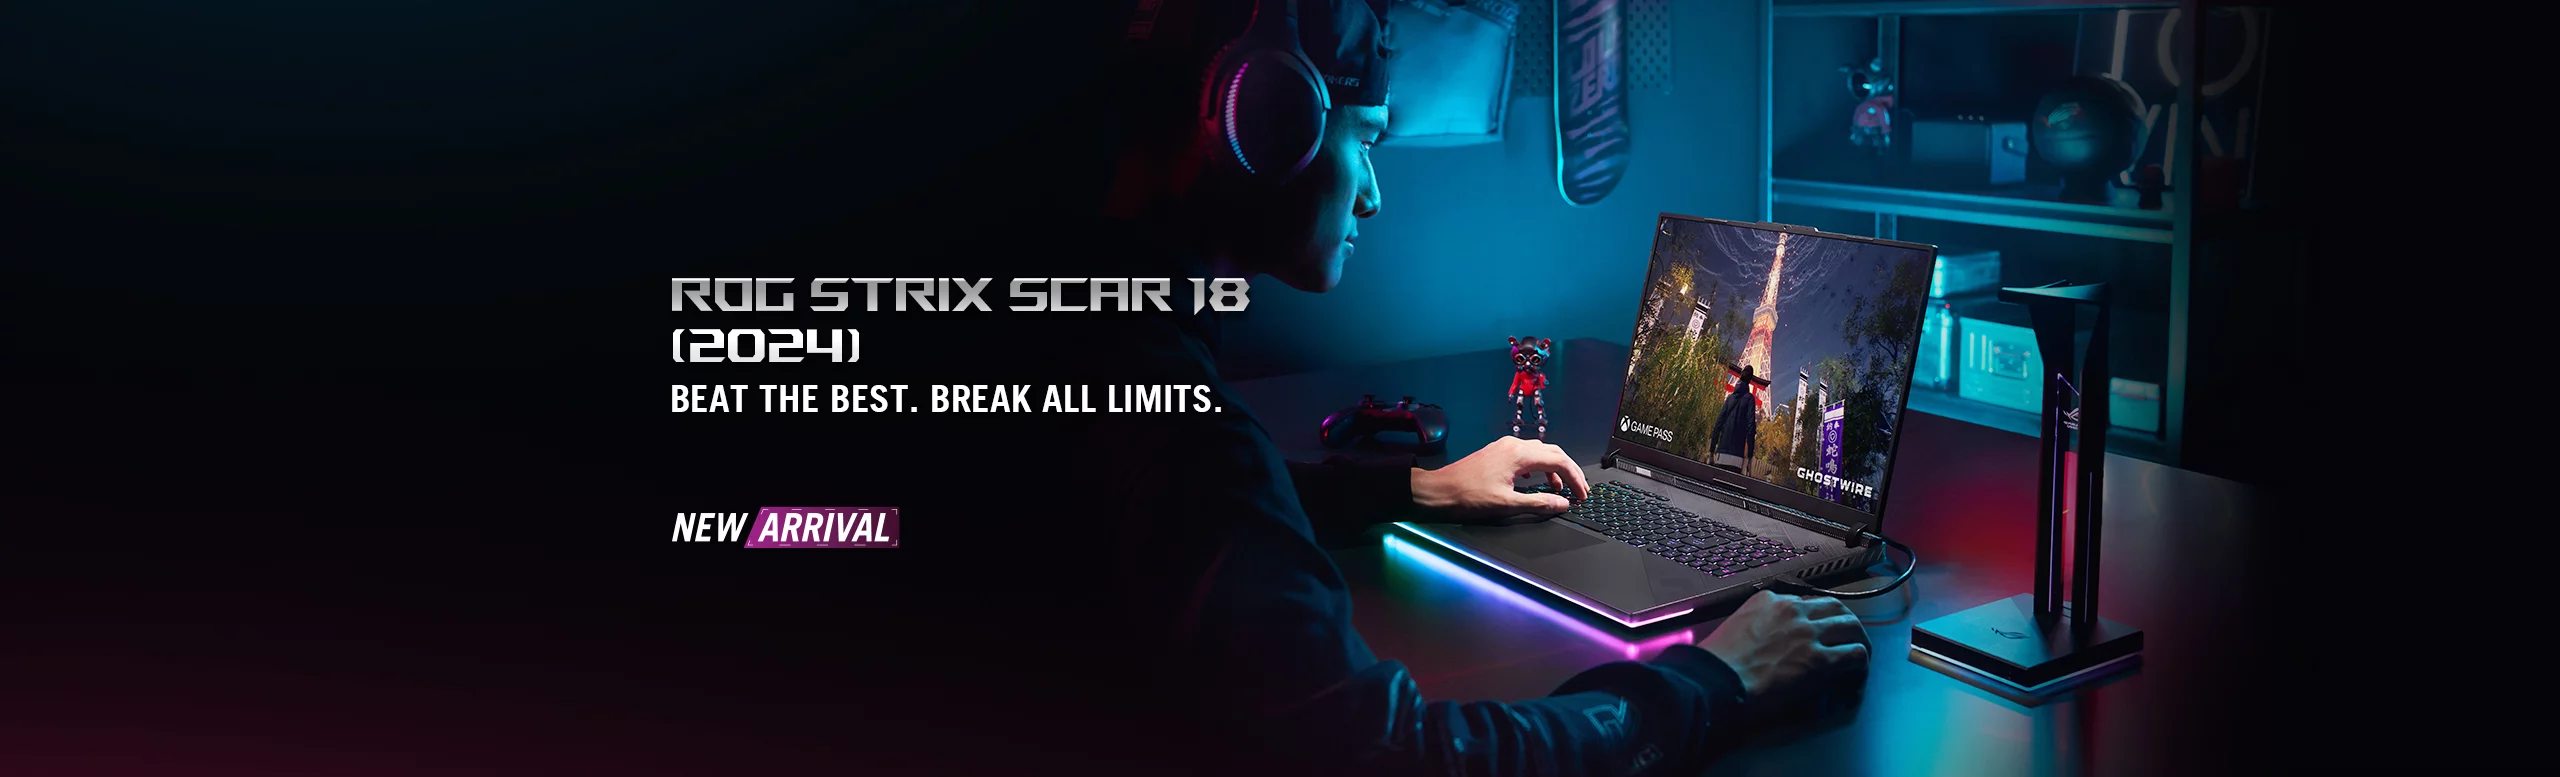
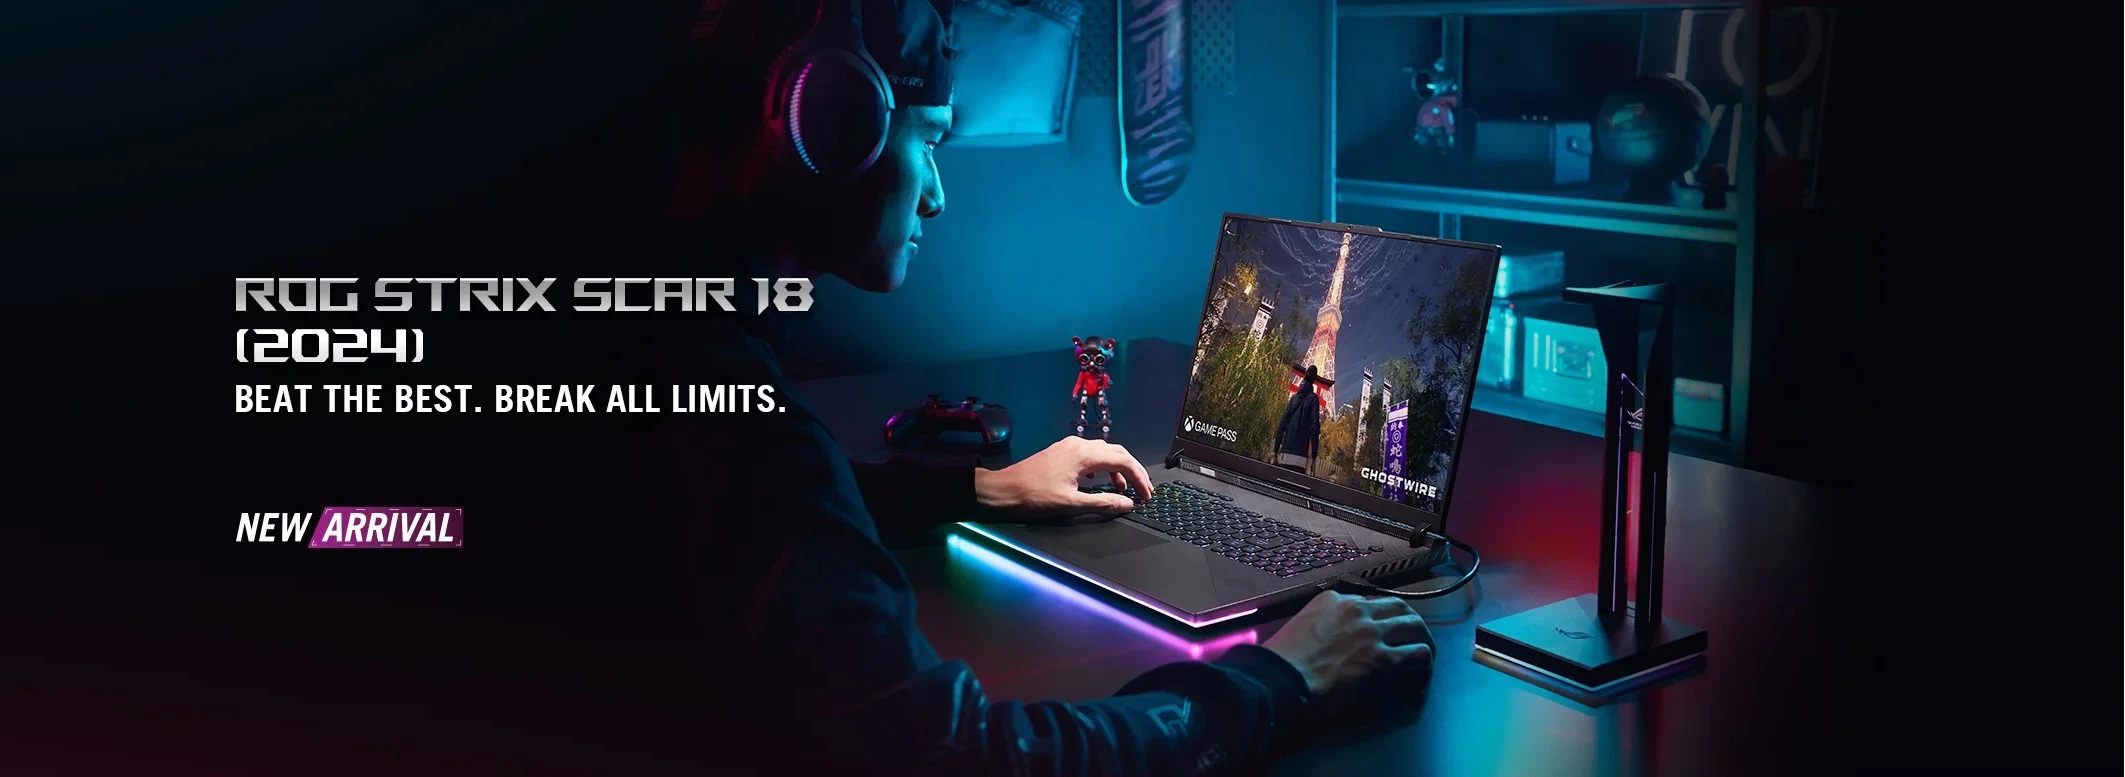
image are massivly optimized

diff --git a/index.html b/index.html
@@ -2,13 +2,13 @@
 <html lang="en" data-theme="light" >
   <head>
     <meta charset="UTF-8" />
-    <link rel="icon" type="image/svg+xml" href="/src/assets/Logo/Lofo-transparent.png" />
+    <link rel="icon" type="image/svg+xml" href="/src/assets/Logo/Lofo-transparent.svg" />
     <meta name="viewport" content="width=device-width, initial-scale=1.0" />
     <link rel="preconnect" href="https://fonts.googleapis.com">
 <link rel="preconnect" href="https://fonts.gstatic.com" crossorigin>
 <link href="https://fonts.googleapis.com/css2?family=Inter:wght@100..900&family=Poppins:ital,wght@0,100;0,200;0,300;0,400;0,500;0,600;0,700;0,800;0,900;1,100;1,200;1,300;1,400;1,500;1,600;1,700;1,800;1,900&display=swap" rel="stylesheet">
     <title>Bikroy Electronics</title>
-  </head>
+  </head >
   <body>
     <div id="root"></div>
     <script type="module" src="/src/main.jsx"></script>

diff --git a/src/Components/ProductCard.jsx b/src/Components/ProductCard.jsx
@@ -1,7 +1,6 @@
 import React, { useState } from "react";
 import { IoCartOutline } from "react-icons/io5";
 import { IoEyeOutline } from "react-icons/io5";
-import image from "../assets/Signup/imou-ranger-2-200x200-removebg-preview.png";
 import { GoHeart } from "react-icons/go";
 import { Rating, RoundedStar } from "@smastrom/react-rating";
 
@@ -103,7 +102,7 @@ const ProductCard = ({ item, discount }) => {
 			<div className="lg:w-[250px] mt-5 overflow-hidden">
 
 				<div className="rounded-md relative  bg-[#F5F5F5]">
-					<div className="p-6 h-[250px] flex items-center">
+					<div className="p-6 max-h-[250px] flex items-center">
 						<img src={item?.imageUrl} className="mx-auto " alt="" />
 					</div>
 					<button onClick={addToCart} className="flex hover:text-black rounded-b-md rounded-none w-full text-white  bg-black btn ">

diff --git a/src/pages/Cart/Cart.jsx b/src/pages/Cart/Cart.jsx
@@ -2,12 +2,12 @@ import React, { useEffect, useState } from "react";
 import { useDeleteAllCartProductMutation, useGetCartProductQuery, useSetSingleCouponMutation, useUpdateCartMutation } from "../../redux/api/baseApi";
 import { useDispatch, useSelector } from "react-redux";
 import CartItem from "./CartItem";
-import image from "../../assets/Others/empty-cart-7359557-6024626.webp"
+import image from "../../assets/Others/cart.svg"
 import { Form, Link } from "react-router-dom";
 import Swal from "sweetalert2";
 import toast from "react-hot-toast";
 import {  setCartTotal , setDiscount, setDiscountedCartTotal } from "../../redux/features/Cart/CartSlice";
-import warningImage from "../../assets/Others/Error_Warning.png"
+import warningImage from "../../assets/Others/Error_Warning.svg"
 
 const Cart = () => {
 

diff --git a/src/Components/Slider.jsx b/src/Components/Slider.jsx
@@ -7,11 +7,11 @@ import "swiper/css/navigation";
 
 import { Autoplay, Pagination, Navigation } from "swiper/modules";
 
-import Banner2 from "../assets/banner/banner1.png";
-import Banner3 from "../assets/banner/banner2-Photoroom.png";
-import Banner1 from "../assets/banner/banner3.jpg";
-import Banner4 from "../assets/banner/banner4.jpg";
-import Banner5 from "../assets/banner/banner5.jpg";
+import Banner2 from "../assets/banner/banner1.webp";
+import Banner3 from "../assets/banner/banner2-Photoroom.webp";
+import Banner1 from "../assets/banner/banner3.webp";
+import Banner4 from "../assets/banner/banner4.webp";
+import Banner5 from "../assets/banner/banner5.webp";
 
 export default function Slider() {
 	return (

diff --git a/src/pages/userDashborad/MyOrder/MyOrder.jsx b/src/pages/userDashborad/MyOrder/MyOrder.jsx
@@ -2,9 +2,9 @@ import React from "react";
 import { TiDelete } from "react-icons/ti";
 import { useSelector } from "react-redux";
 import { useGetOrdersQuery, useUpdateOrderStatusMutation } from "../../../redux/api/baseApi";
-import image from "../../../assets/Others/no-orders.png"
+import image from "../../../assets/Others/no-orders.svg"
 import { Link } from "react-router-dom";
-import warningImage from "../../../assets/Others/Error_Warning.png"
+import warningImage from "../../../assets/Others/Error_Warning.svg"
 
 
 const MyOrder = () => {
@@ -38,6 +38,7 @@ const MyOrder = () => {
 
 	return (
 		<div className=" mt-5 lg:mt-10">
+			
 
 			{
 				isLoading ? <div className="mb-16 border-2">

diff --git a/src/pages/Wishlist/Wishlist.jsx b/src/pages/Wishlist/Wishlist.jsx
@@ -4,10 +4,10 @@ import ProductCard from "../../Components/ProductCard";
 import { useDeleteWishlistProductMutation, useGetProductsQuery, useGetWishlistProductQuery, useSetAllCartProductMutation } from "../../redux/api/baseApi";
 import { useSelector } from "react-redux";
 import Swal from "sweetalert2";
-import image from "../../assets/Others/emptywishlist.png"
+import image from "../../assets/Others/emptywishlist.svg"
 import { Link } from "react-router-dom";
 import { isPending } from "@reduxjs/toolkit";
-import warningImage from "../../assets/Others/Error_Warning.png"
+import warningImage from "../../assets/Others/Error_Warning.svg"
 
 const Wishlist = () => {
 

diff --git a/src/pages/Auth/Login.jsx b/src/pages/Auth/Login.jsx
@@ -89,7 +89,7 @@ const Login = () => {
 				<div className="block lg:w-1/2">
 					<img className="w-full md:h-[500px] lg:h-full object-cover" src={signUpImage} alt="" />
 				</div>
-				<div className="lg:w-1/2  h-screen flex items-center">
+				<div className="lg:w-1/2  lg:h-screen flex lg:items-center">
 					<div className=" max-w-[500px] h md:-mt-24 lg:-mt-0 md:shadow-2xl lg:shadow-none bg-white font-poppins py-5 lg:py-20 px-10">
 						<h1 className="font-inter font-medium text-2xl lg:text-3xl">
 							Log in to BikroyElectronics

diff --git a/src/AdminDashboard/ProductManagement/AddProduct.jsx b/src/AdminDashboard/ProductManagement/AddProduct.jsx
@@ -1,7 +1,7 @@
 import axios from "axios";
 import React, { useEffect, useState } from "react";
 import { useForm } from "react-hook-form";
-import imageUpload from "../../assets/Others/image-removebg-preview (14).png";
+import imageUpload from "../../assets/Others/image-removebg-preview (14).svg";
 import { categoryItems } from "../../../public/categoryObject";
 import { useSetProductsMutation } from "../../redux/api/baseApi";
 import toast, { Toaster } from 'react-hot-toast';

diff --git a/src/Shared/Nav.jsx b/src/Shared/Nav.jsx
@@ -14,7 +14,7 @@ import { useDispatch, useSelector } from "react-redux";
 import { setUser } from "../redux/features/user/userSlice";
 import { setCategories, setSearchText } from "../redux/features/filter/filterSlice";
 import { useGetSingleUserQuery, useRemoveTokenMutation } from "../redux/api/baseApi";
-import logo from "../assets/Logo/Logo-white.png"
+import logo from "../assets/Logo/logo-full.svg"
 
 const Nav = () => {
 

diff --git a/src/pages/userDashborad/MyCancellation/MyCancellations.jsx b/src/pages/userDashborad/MyCancellation/MyCancellations.jsx
@@ -2,7 +2,7 @@ import React from "react";
 import { TiDelete } from "react-icons/ti";
 import { useSelector } from "react-redux";
 import { useGetCancelledOrdersQuery, useGetOrdersQuery, useUpdateOrderStatusMutation } from "../../../redux/api/baseApi";
-import image from "../../../assets/Others/no-orders.png"
+import image from "../../../assets/Others/no-orders.svg"
 import { Link } from "react-router-dom";
 
 

diff --git a/src/AdminDashboard/ProductManagement/EditProduct.jsx b/src/AdminDashboard/ProductManagement/EditProduct.jsx
@@ -1,7 +1,7 @@
 import axios from "axios";
 import React, { useEffect, useState } from "react";
 import { useForm } from "react-hook-form";
-import imageUpload from "../../assets/Others/image-removebg-preview (14).png";
+import imageUpload from "../../assets/Others/image-removebg-preview (14).svg";
 import { categoryItems } from "../../../public/categoryObject";
 import {
 	useGetSingleProductsQuery,

diff --git a/src/Components/WishListProductCard.jsx b/src/Components/WishListProductCard.jsx
@@ -1,7 +1,6 @@
 import React from "react";
 import { IoCartOutline } from "react-icons/io5";
 import { RiDeleteBin6Line } from "react-icons/ri";
-import image from "../assets/Signup/imou-ranger-2-200x200-removebg-preview.png"
 import { useDeleteWishlistProductMutation } from "../redux/api/baseApi";
 import Swal from "sweetalert2";
 
